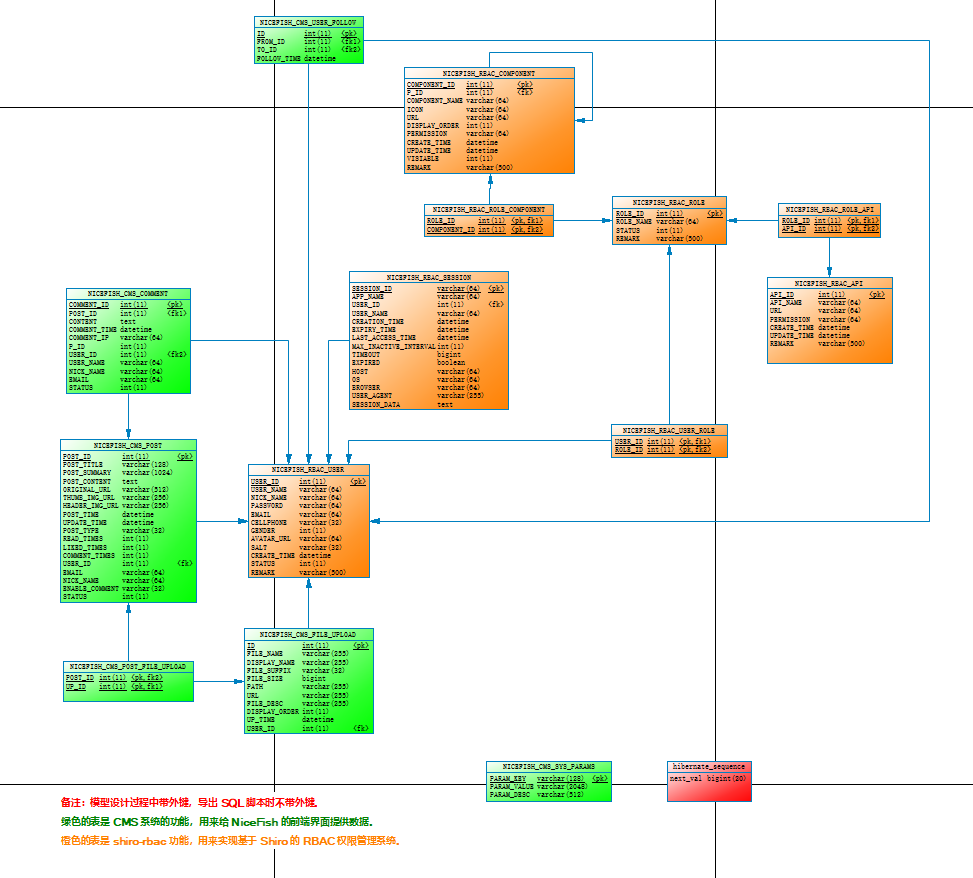
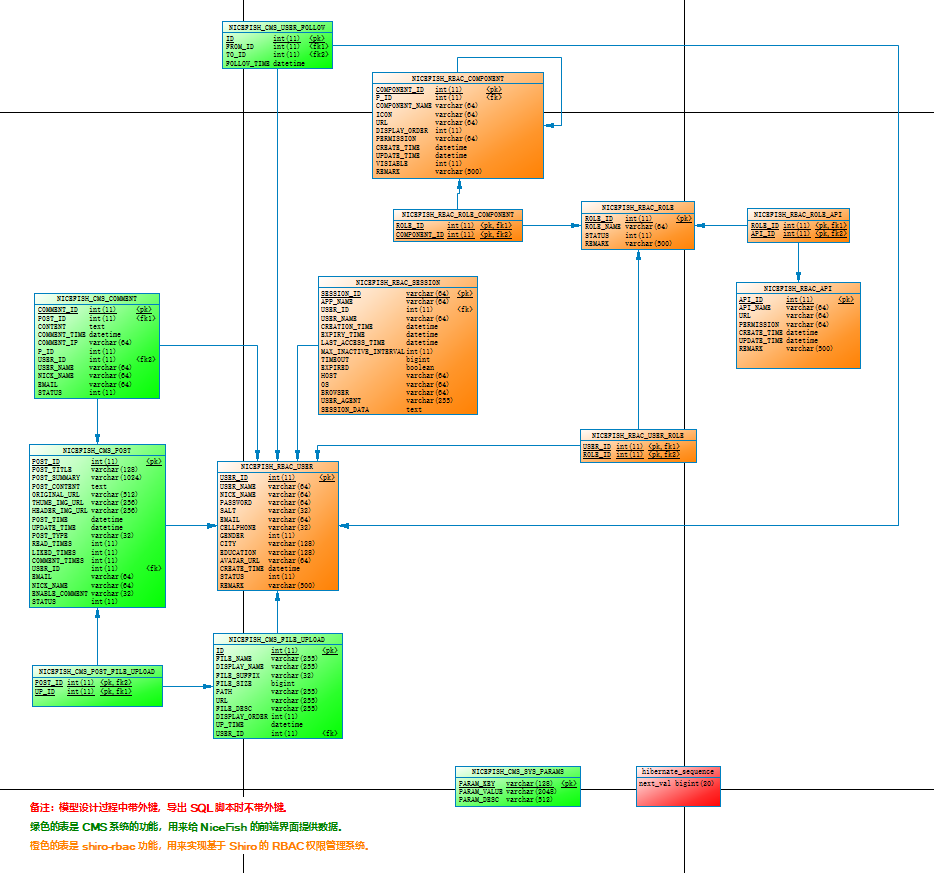
修改 UserEntity 以及对应的 pdm, sql

Changed region(s): [[0.031, 0.0, 0.9625, 1.0], [0.031, 0.7113, 0.4036, 0.9897], [0.031, 0.3093, 0.2173, 0.4639]]

diff --git a/nicefish-shiro-rbac/src/main/java/com/nicefish/rbac/jpa/entity/UserEntity.java b/nicefish-shiro-rbac/src/main/java/com/nicefish/rbac/jpa/entity/UserEntity.java
@@ -38,6 +38,12 @@ public class UserEntity implements Serializable {
     @Column(name="gender",columnDefinition = "int default 0")
     private Integer gender=0;
 
+    @Column(name="city")
+    private String city;
+
+    @Column(name="education")
+    private String education;
+
     @Temporal(TemporalType.TIMESTAMP)
     @Column(name="create_time",updatable = false)
     @JsonFormat(shape = JsonFormat.Shape.STRING, pattern = "yyyy-MM-dd HH:mm:ss")
@@ -166,5 +172,21 @@ public class UserEntity implements Serializable {
 
     public void setCreateTime(Date createTime) {
         this.createTime = createTime;
+    }
+
+    public String getCity() {
+        return city;
+    }
+
+    public void setCity(String city) {
+        this.city = city;
+    }
+
+    public String getEducation() {
+        return education;
+    }
+
+    public void setEducation(String education) {
+        this.education = education;
     }
 }
